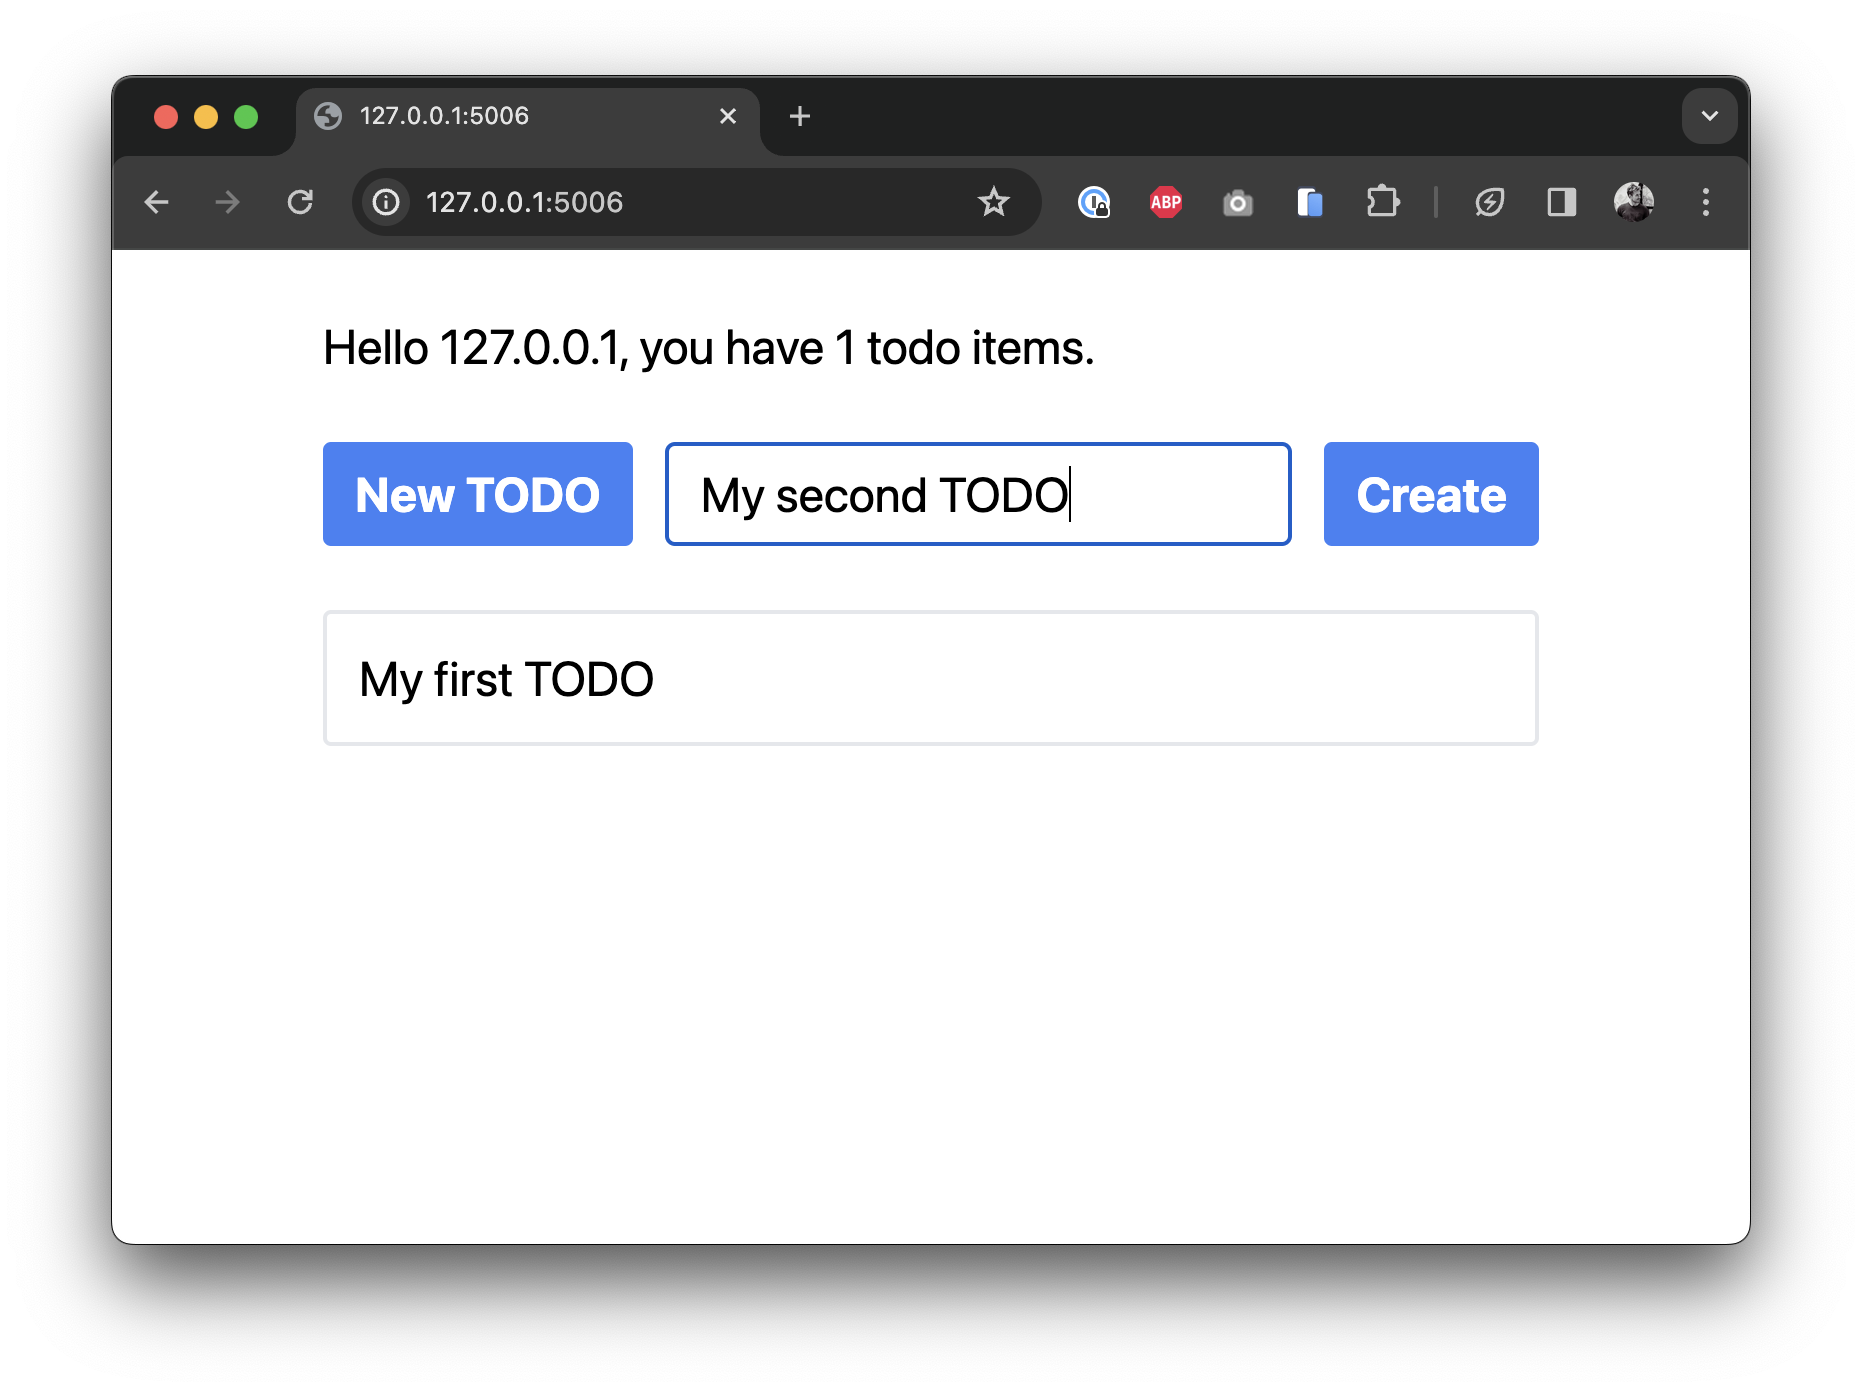
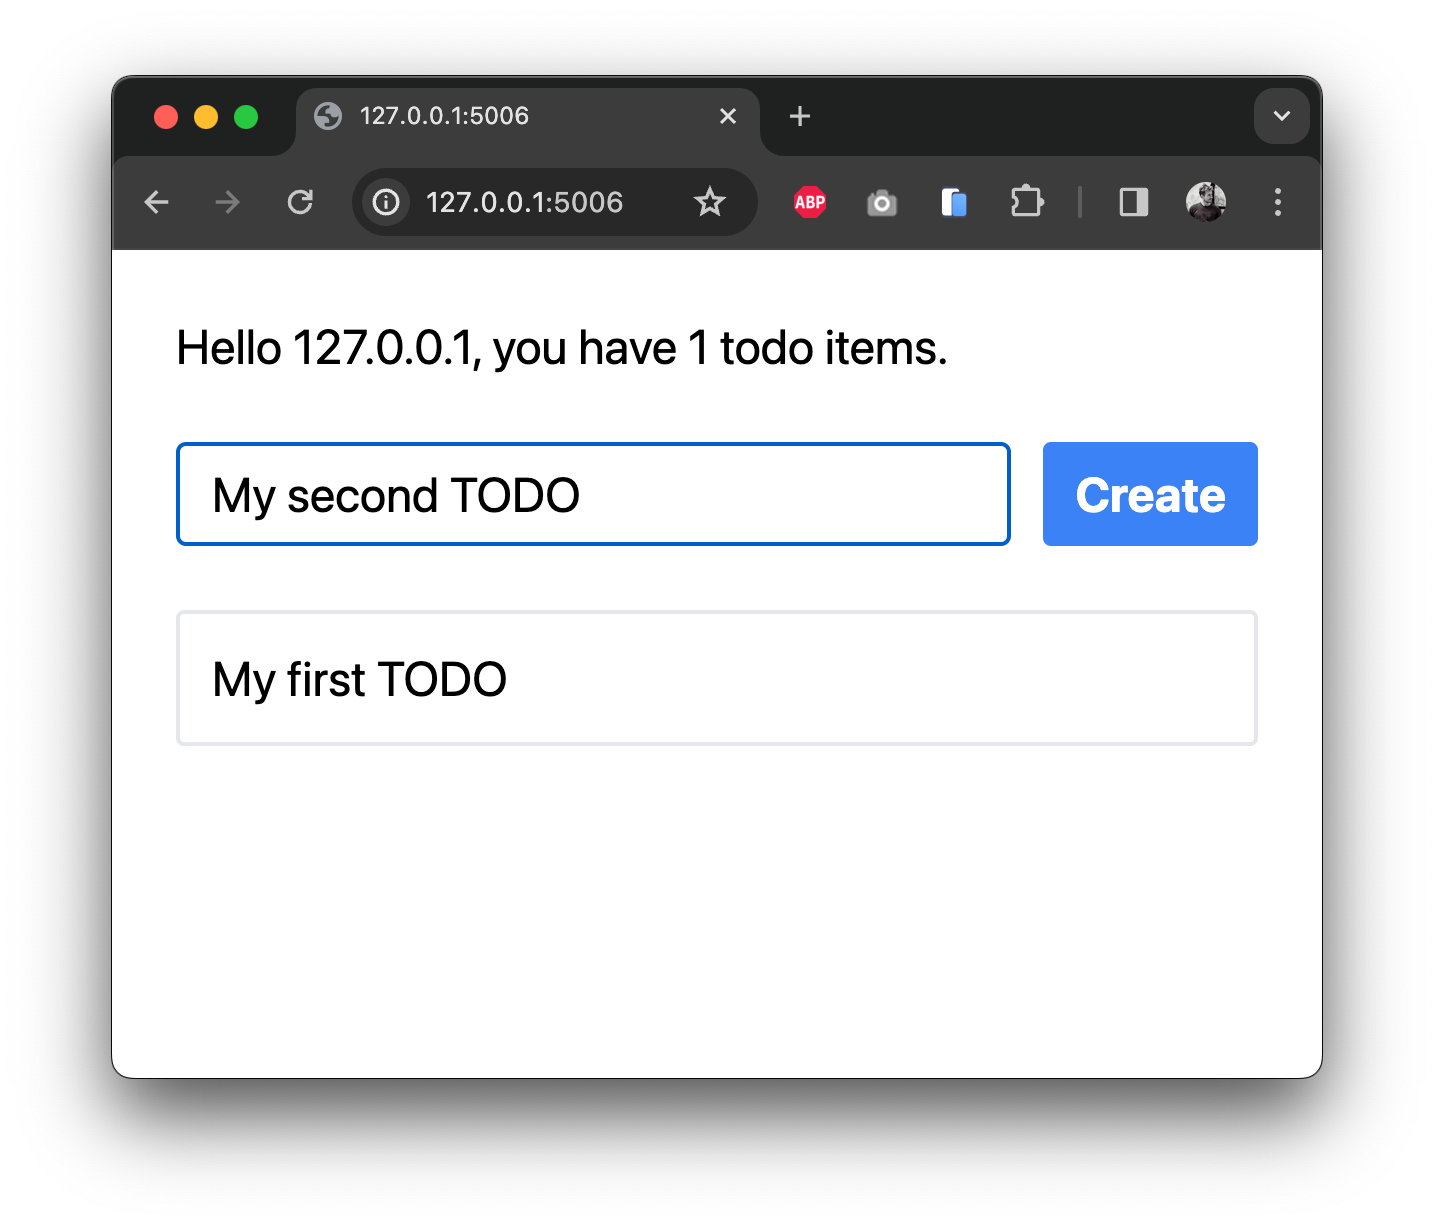
Update screenshots

Changed region(s): [[0.0307, 0.031, 0.9512, 0.9608]]

diff --git a/mountaineer/database/cli.py b/mountaineer/database/cli.py
@@ -46,7 +46,7 @@ async def handle_createdb(*args, **kwargs):
                 )
             )
             tables = "\n".join([f"* {table[0]}" for table in result.fetchall()])
-            secho(f"Database tables created: {tables}", fg="green")
+            secho(f"Database tables created:\n{tables}", fg="green")
 
     async with get_function_dependencies(callable=run_migrations) as values:
         await run_migrations(**values)

diff --git a/README.md b/README.md
@@ -183,6 +183,32 @@ Note that the database session is provided via dependency injection, which plug-
 - mountaineer.CoreDependencies: helper functions for configurations and general dependency injection
 - mountaineer.database.DatabaseDependencies: helper functions for database lifecycle and management
 
+Now that we've newly created this controller, we wire it up to the application. This registers it for display when you load the homepage.
+
+```python
+# my_webapp/app.py
+from mountaineer.app import AppController
+from mountaineer.js_compiler.postcss import PostCSSBundler
+from mountaineer.render import LinkAttribute, Metadata
+
+from my_webapp.views import get_view_path
+from my_webapp.config import AppConfig
+from my_webapp.controllers.home import HomeController
+
+controller = AppController(
+    view_root=get_view_path(""),
+    config=AppConfig(),
+    global_metadata=Metadata(
+        links=[LinkAttribute(rel="stylesheet", href="/static/app_main.css")]
+    ),
+    custom_builders=[
+        PostCSSBundler(),
+    ],
+)
+
+controller.register(HomeController())
+```
+
 Let's move over to the frontend.
 
 ```tsx
@@ -315,12 +341,6 @@ const CreateTodo = ({ serverState }: { serverState: ServerState }) => {
 
 export default Home;
 ```
-
-We add some boilerplate functionality to our component to:
-
-- Expand a text input when the "New TODO" button is clicked
-- Allow the user to enter in a new todo description
-- Create that todo when the "Create" button is clicked
 
 `useServer()` exposes our `add_todo` function so we can call our backend directly from our frontend. Also notice that we don't have to read or parse the output value of this function to render the new todo item to the list. Since the function is marked as a sideeffect, the frontend will automatically refresh its data after the function is called.
 
